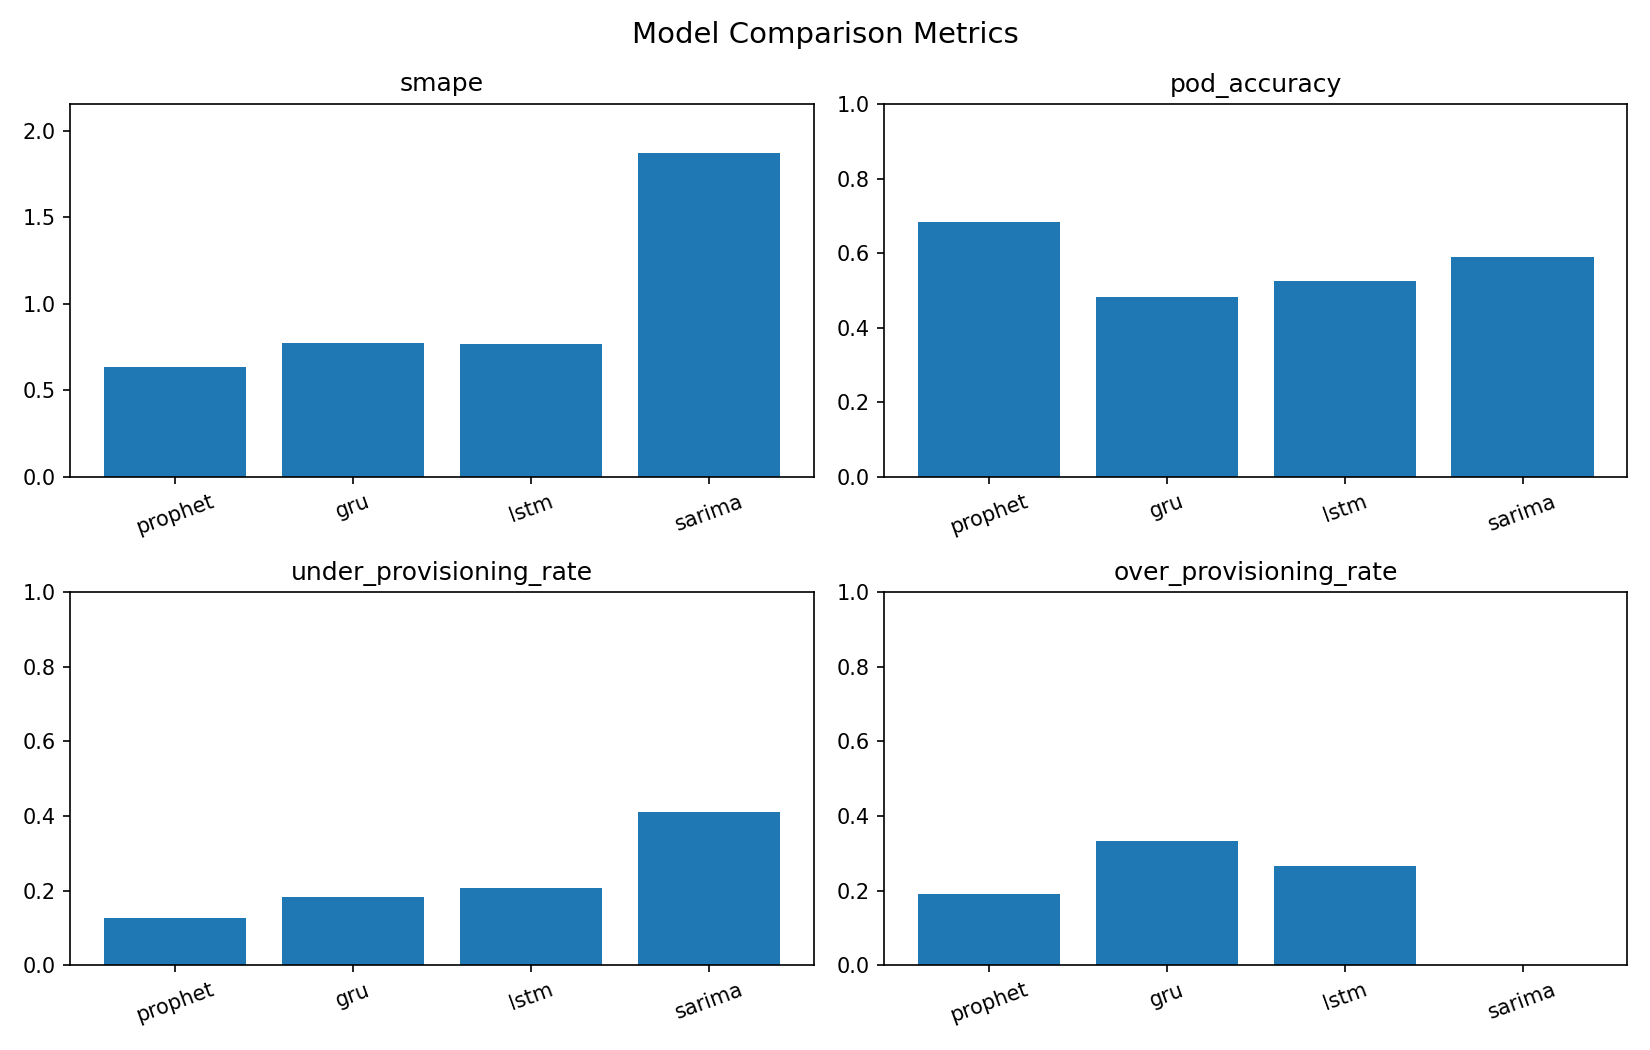
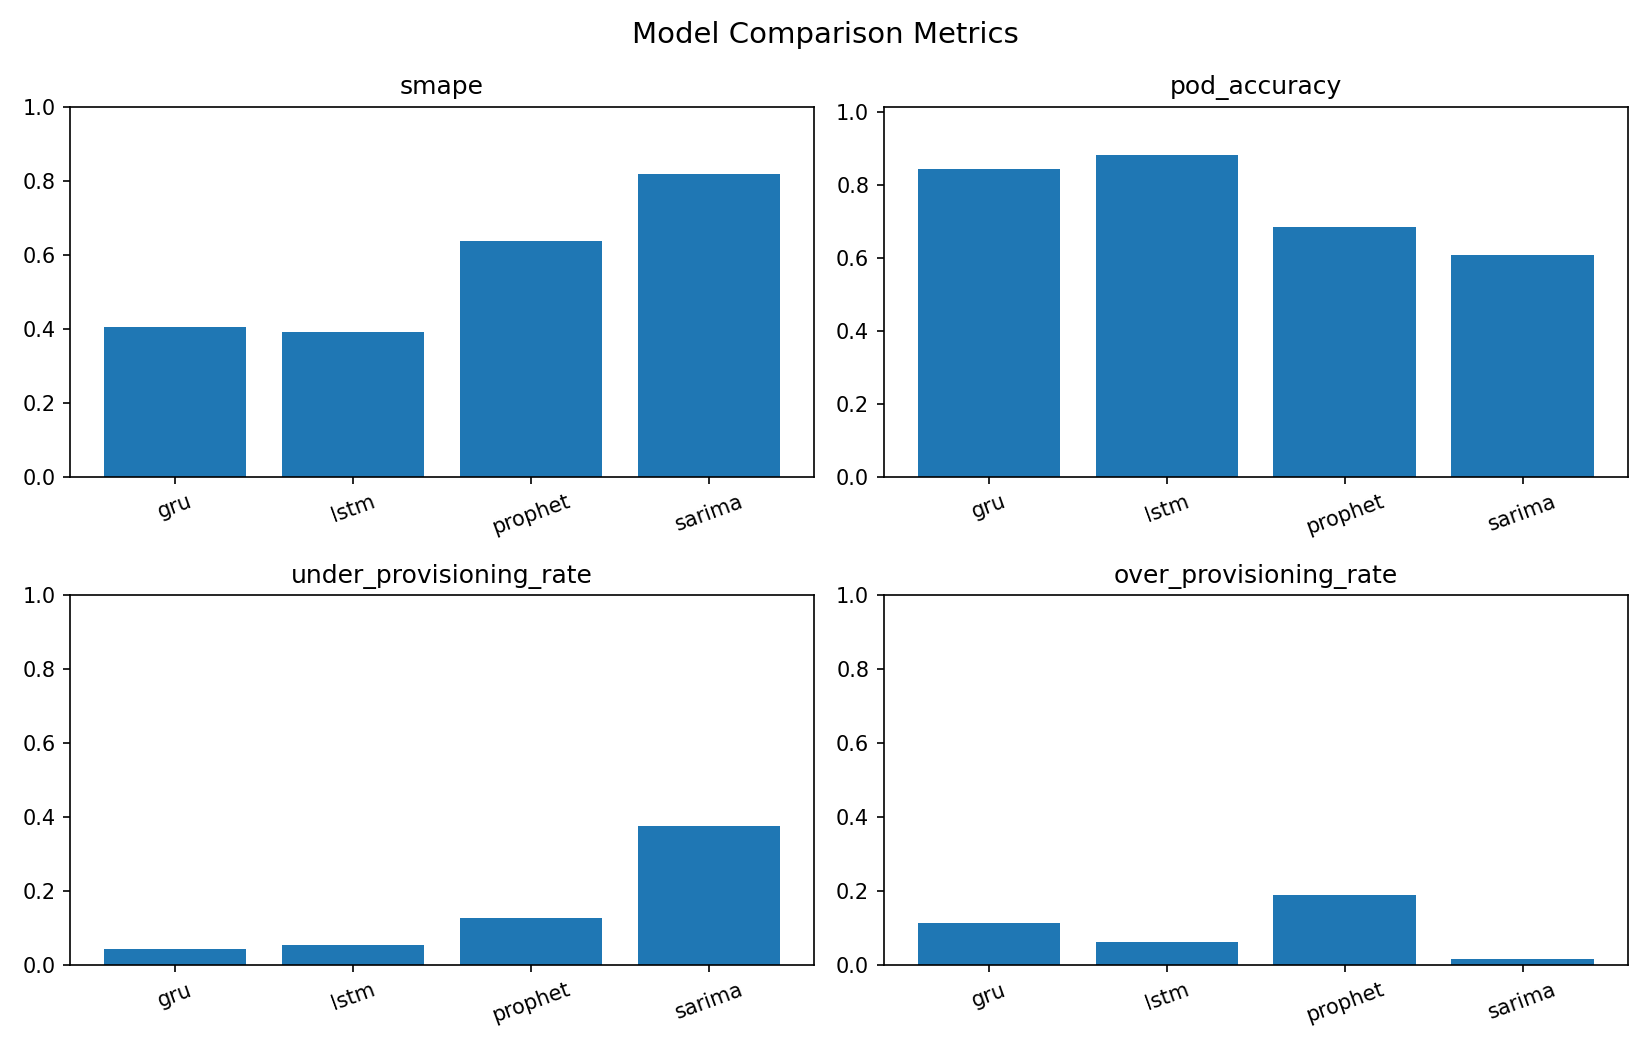
#23 docs: 리드미 수정

diff --git a/README.md b/README.md
@@ -234,6 +234,8 @@ SMAPE는 traffic value 예측 오차를 보고, 나머지 세 지표는 실제 a
 | 3 | Prophet | 0.6368 | 0.6832 | 0.1268 | 0.1900 |
 | 4 | SARIMA | 0.8197 | 0.6083 | 0.3762 | 0.0155 |
 
+![Model comparison](docs/assets/model_comparison.png)
+
 ## 결과 해석
 
 GRU는 under-provisioning rate가 가장 낮아 pod 부족 위험을 줄이는 관점에서 가장 유리했다. Primary metric 기준으로는 현재 1순위 후보다.
